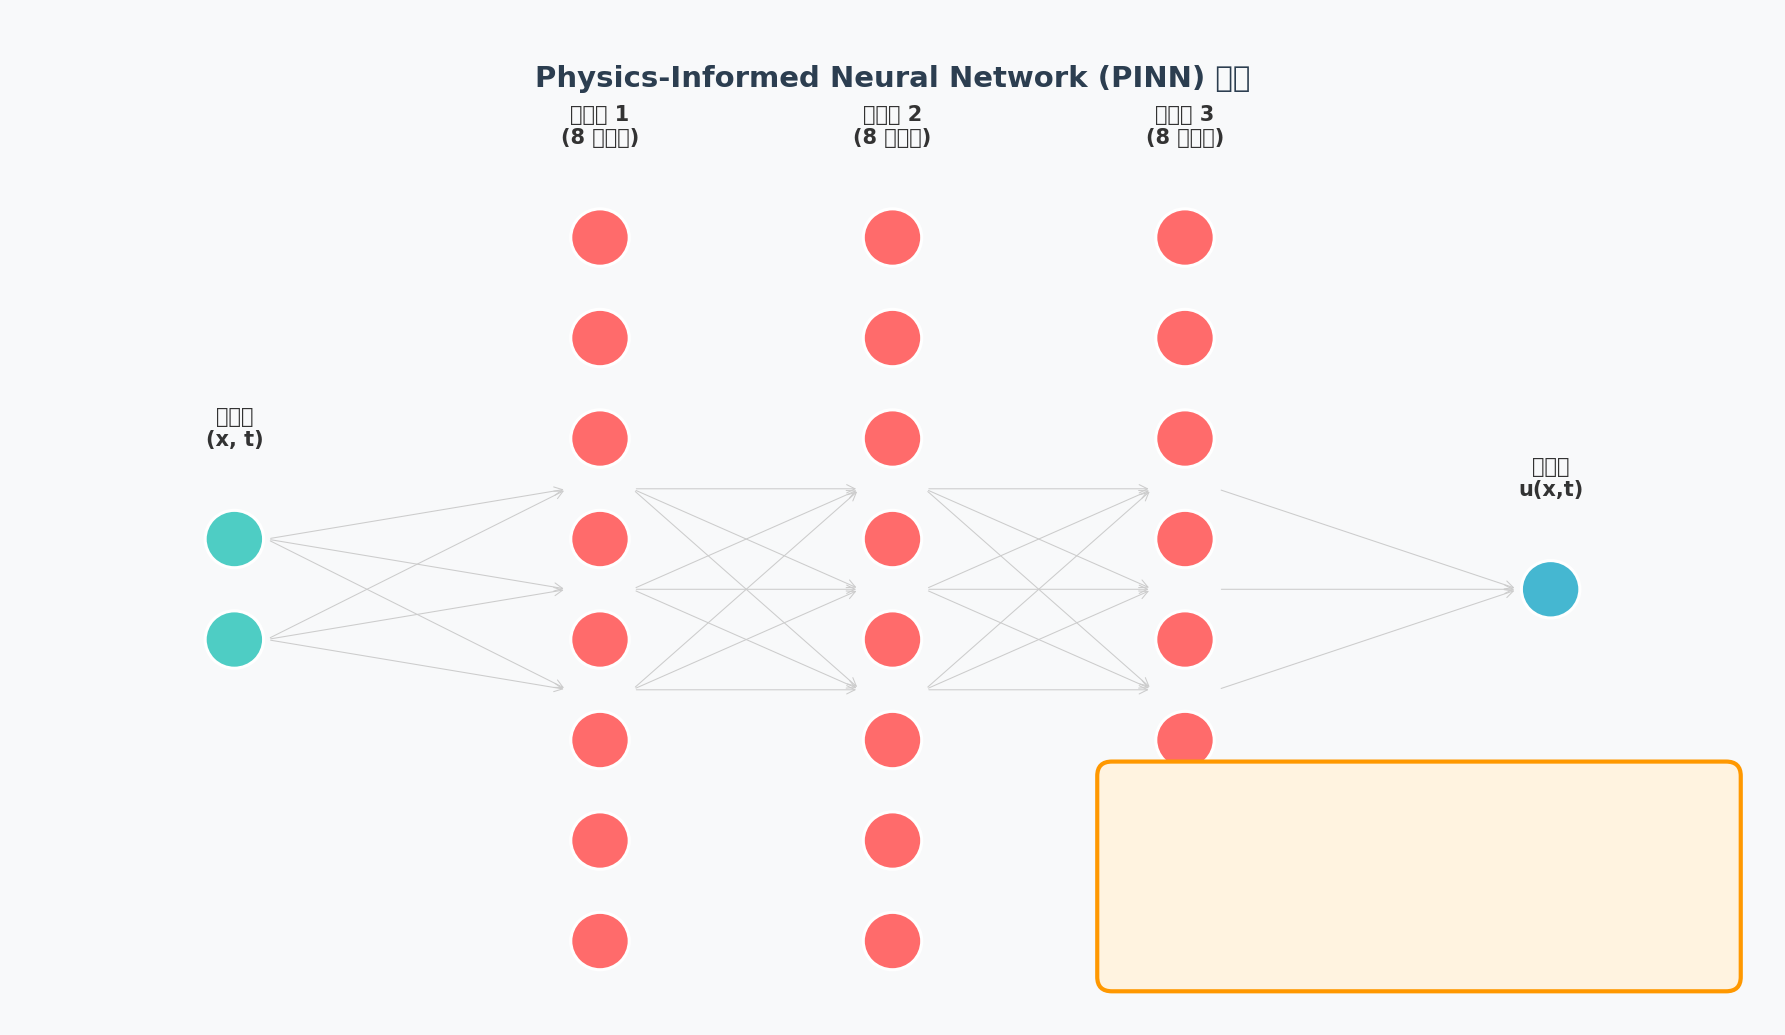
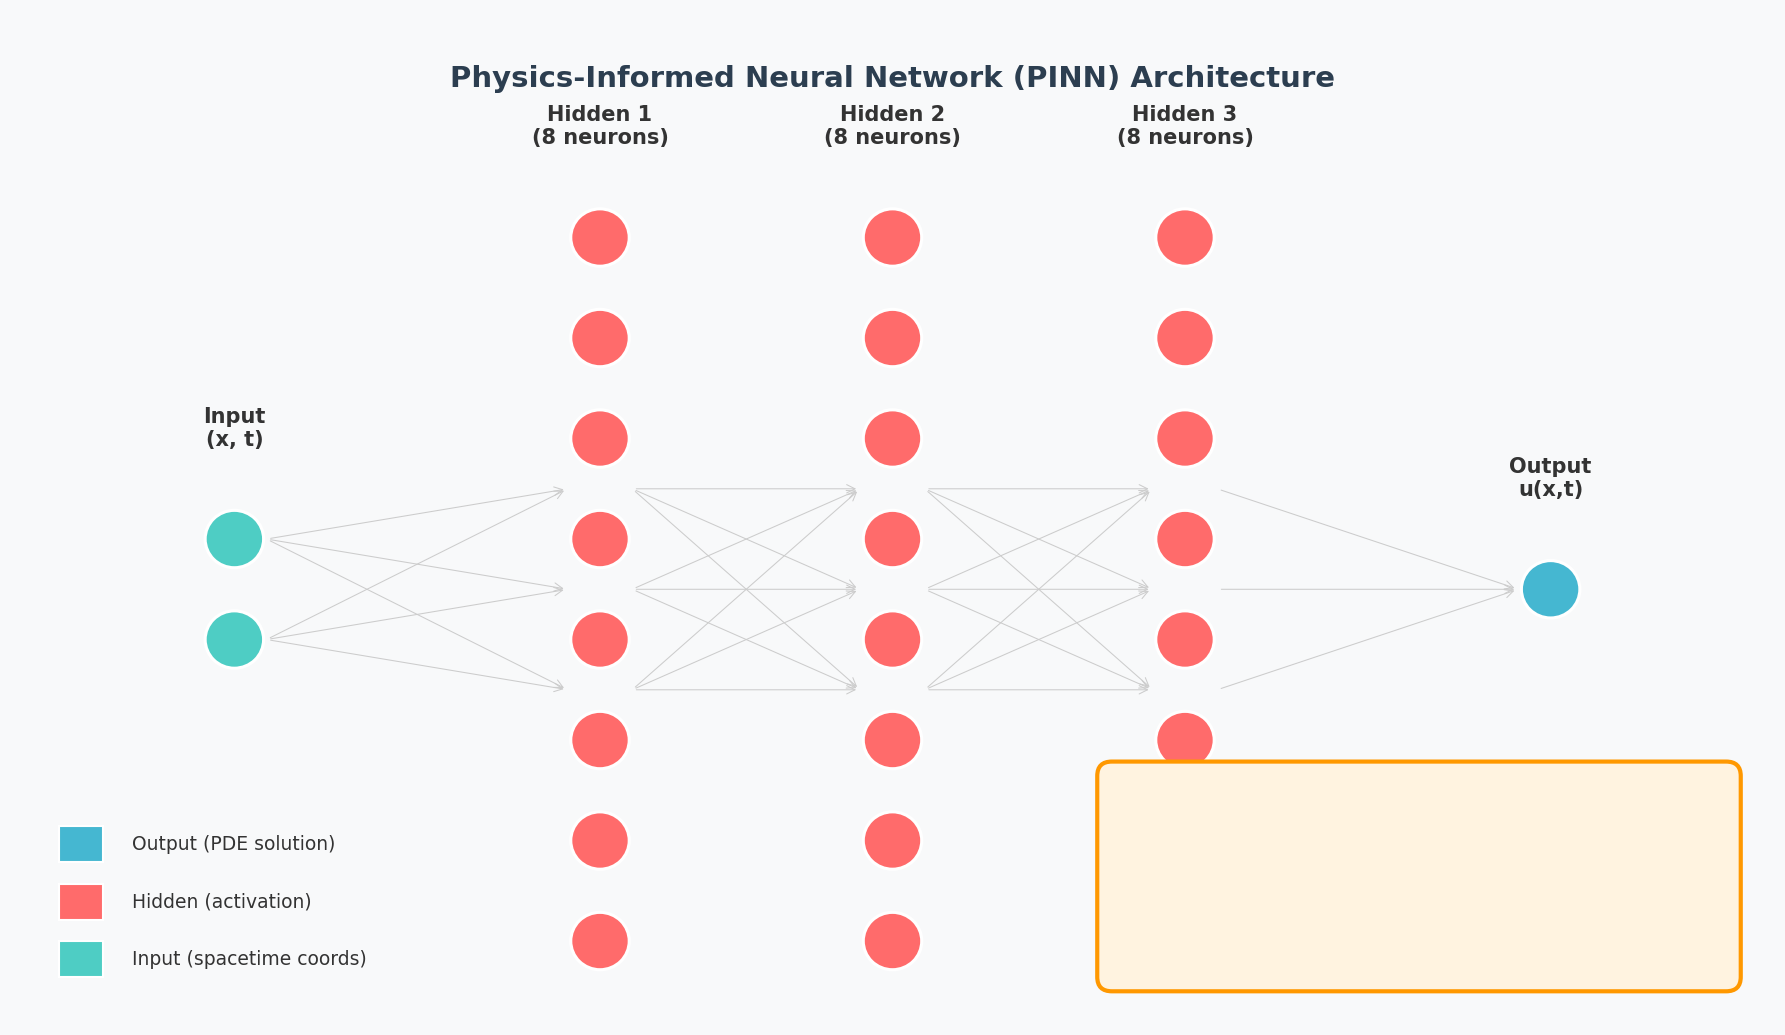
fix: 数学公式渲染+加粗修复+架构图英文版

diff --git a/src/content/blog/pinn-introduction.md b/src/content/blog/pinn-introduction.md
@@ -7,13 +7,13 @@ tags: ["深度学习", "PDE", "PINN", "PyTorch", "科学计算"]
 
 # 物理信息网络 PINN：利用神经网络求解偏微分方程
 
-> 偏微分方程（PDE）是描述物理世界的基本语言——热传导、流体动力学、量子力学，无一不是 PDE 的天下。但求解 PDE 常常需要复杂的数值方法（有限元、有限差分……），对几何形状不规则的区域更是头疼。**Physics-Informed Neural Networks（PINN）** 给出了一个全新的思路：**用神经网络作为 PDE 的解函数，用自动微分作为物理约束的执行器**。
+> 偏微分方程（PDE）是描述物理世界的基本语言——热传导、流体动力学、量子力学，无一不是 PDE 的天下。但求解 PDE 常常需要复杂的数值方法（有限元、有限差分……），对几何形状不规则的区域更是头疼。<strong>Physics-Informed Neural Networks（PINN）</strong> 给出了一个全新的思路：<strong>用神经网络作为 PDE 的解函数，用自动微分作为物理约束的执行器</strong>。
 
 ---
 
 ## 1. 什么是 PINN？
 
-**PINN 的核心思想**：不把神经网络当作"万能拟合器"，而是当作 **PDE 解函数的表示**。
+<strong>PINN 的核心思想</strong>：不把神经网络当作"万能拟合器"，而是当作 <strong>PDE 解函数的表示</strong>。
 
 传统方法：给定边界条件和初始条件，用数值差分近似 PDE 的导数。
 
@@ -27,11 +27,11 @@ PINN：用一个神经网络 `u_θ(x,t)` 来近似 PDE 的解 `u(x,t)`，其中 
 
 如上图所示，PINN 的结构为：
 
-- **输入层**：时空坐标 `(x, t)`
-- **隐藏层**：全连接层 + 激活函数（Tanh / Sigmoid）
-- **输出层**：PDE 的解 `u(x,t)`
+- <strong>输入层</strong>：时空坐标 `(x, t)`
+- <strong>隐藏层</strong>：全连接层 + 激活函数（Tanh / Sigmoid）
+- <strong>输出层</strong>：PDE 的解 `u(x,t)`
 
-关键区别在于**损失函数**的设计——除了数据拟合损失外，还加入了物理约束损失。
+关键区别在于<strong>损失函数</strong>的设计——除了数据拟合损失外，还加入了物理约束损失。
 
 ---
 
@@ -39,7 +39,7 @@ PINN：用一个神经网络 `u_θ(x,t)` 来近似 PDE 的解 `u(x,t)`，其中 
 
 ### 3.1 问题设定
 
-以**一维热传导方程**为例：
+以<strong>一维热传导方程</strong>为例：
 
 $$
 \frac{\partial u}{\partial t} = \alpha \frac{\partial^2 u}{\partial x^2}, \quad x \in [-1, 1], \quad t \in [0, 1]
@@ -68,7 +68,7 @@ $$
 f(x,t) = \frac{\partial u}{\partial t} - \alpha \frac{\partial^2 u}{\partial x^2} \quad \Rightarrow \quad \mathcal{L}_{PDE} = \frac{1}{N}\sum_{i=1}^{N} |f(x_i, t_i)|^2
 $$
 
-> 这里的 `f(x,t)` 被称为**残差网络（physics network）**，它完全由自动微分构造，不需要任何有限差分近似。
+> 这里的 `f(x,t)` 被称为<strong>残差网络（physics network）</strong>，它完全由自动微分构造，不需要任何有限差分近似。
 
 ---
 
@@ -259,17 +259,17 @@ ani.save("pinn_loss_components.gif", writer="pillow", fps=6, dpi=100)
 ![PINN 收敛动画](/pinn_gifs/pinn_convergence.gif)
 
 上图展示了 PINN 在训练过程中逐步逼近精确解的过程：
-- **左图**：t=0.5 时刻的解曲线，红色虚线为 PINN 预测，蓝色实线为精确解
-- **中图**：训练损失（对数坐标），可以看到三种损失协同下降
-- **右图**：PINN 预测的完整 (x,t) 解场
+- <strong>左图</strong>：t=0.5 时刻的解曲线，红色虚线为 PINN 预测，蓝色实线为精确解
+- <strong>中图</strong>：训练损失（对数坐标），可以看到三种损失协同下降
+- <strong>右图</strong>：PINN 预测的完整 (x,t) 解场
 
 ### 5.2 损失函数分解
 
 ![PINN 损失分解动画](/pinn_gifs/pinn_loss_components.gif)
 
 从损失分解动画可以看出：
-- **PDE 损失（红色）**下降最快，说明网络快速学到了物理规律
-- **边界条件损失（蓝色）** 通常最小，因为边界条件约束最简单
+- <strong>PDE 损失（红色）</strong>下降最快，说明网络快速学到了物理规律
+- <strong>边界条件损失（蓝色）</strong> 通常最小，因为边界条件约束最简单
 - 三种损失最终趋于稳定，表明网络已收敛
 
 ---
@@ -278,11 +278,11 @@ ani.save("pinn_loss_components.gif", writer="pillow", fps=6, dpi=100)
 
 | 特性 | 传统数值方法（FEM/FDM） | PINN |
 |------|------------------------|------|
-| 网格生成 | 需要精细网格，高维困难 | **无需网格**，随机采样 |
-| 导数精度 | 依赖差分近似，有截断误差 | **自动微分**，任意精度 |
-| 不规则区域 | 网格划分复杂 | **天然支持**任意几何 |
-| 反问题 | 需要重求解器 | **端到端**梯度优化 |
-| 高维问题 | 维度灾难 | **Scalable** |
+| 网格生成 | 需要精细网格，高维困难 | <strong>无需网格</strong>，随机采样 |
+| 导数精度 | 依赖差分近似，有截断误差 | <strong>自动微分</strong>，任意精度 |
+| 不规则区域 | 网格划分复杂 | <strong>天然支持</strong>任意几何 |
+| 反问题 | 需要重求解器 | <strong>端到端</strong>梯度优化 |
+| 高维问题 | 维度灾难 | <strong>Scalable</strong> |
 
 ---
 
@@ -292,26 +292,26 @@ ani.save("pinn_loss_components.gif", writer="pillow", fps=6, dpi=100)
 
 ### 7.1 训练困难
 
-- **模式坍缩（Mode Collapse）**：当 PDE 有多个解时，PINN 可能只学到其中一个
-- **梯度消失**：高阶导数（如 u_xxxx）的梯度在深层网络中可能极小
-- **超参数敏感**：网络深度、学习率、采样策略对结果影响显著
+- <strong>模式坍缩（Mode Collapse）</strong>：当 PDE 有多个解时，PINN 可能只学到其中一个
+- <strong>梯度消失</strong>：高阶导数（如 u_xxxx）的梯度在深层网络中可能极小
+- <strong>超参数敏感</strong>：网络深度、学习率、采样策略对结果影响显著
 
 ### 7.2 解的精度
 
-- 神经网络在**高频解**（如震荡解）上精度较差
+- 神经网络在<strong>高频解</strong>（如震荡解）上精度较差
 - 边界层、奇异性附近需要特殊处理（自适应采样、周期扩展等）
 
 ### 7.3 计算效率
 
-- 相比成熟数值库（如 FEniCS、COMSOL），PINN 在简单 PDE 上往往**更慢**
+- 相比成熟数值库（如 FEniCS、COMSOL），PINN 在简单 PDE 上往往<strong>更慢</strong>
 - GPU 利用率不如专用数值代码高
 
 ### 7.4 改进方向
 
-- **Adaptive Sampling**：在误差大的区域多采样（如 Residual-based Adaptive Refinement）
-- **DeepONet**： Operator Network，直接学习 PDE 解算子
-- **Fourier Neural Operator (FNO)**：频域神经算子，高维问题效果更好
-- **HP-VPINN**：基于变分形式的 PINN，精度更高
+- <strong>Adaptive Sampling</strong>：在误差大的区域多采样（如 Residual-based Adaptive Refinement）
+- <strong>DeepONet</strong>： Operator Network，直接学习 PDE 解算子
+- <strong>Fourier Neural Operator (FNO)</strong>：频域神经算子，高维问题效果更好
+- <strong>HP-VPINN</strong>：基于变分形式的 PINN，精度更高
 
 ---
 
@@ -382,18 +382,18 @@ print("结果已保存!")
 
 ## 9. 总结
 
-PINN 将**物理先验**嵌入神经网络的训练过程，开辟了"物理驱动的深度学习"这一新范式。它的核心创新不是网络结构，而是**损失函数的设计**——用自动微分精确施加物理约束。
+PINN 将<strong>物理先验</strong>嵌入神经网络的训练过程，开辟了"物理驱动的深度学习"这一新范式。它的核心创新不是网络结构，而是<strong>损失函数的设计</strong>——用自动微分精确施加物理约束。
 
 尽管存在训练困难、精度有限等挑战，PINN 在以下场景中展现了独特价值：
-- **高维 PDE**（传统方法维度灾难）
-- **反问题**（参数识别、数据同化）
-- **不确定性量化**（结合贝叶斯方法）
+- <strong>高维 PDE</strong>（传统方法维度灾难）
+- <strong>反问题</strong>（参数识别、数据同化）
+- <strong>不确定性量化</strong>（结合贝叶斯方法）
 
 > 如果你想进一步探索，推荐从 [DeepXDE](https://deepxde.readthedocs.io/) 库开始，它封装了大量 PINN 变体和自适应采样策略。
 
 ---
 
-**参考论文：**
+<strong>参考论文：</strong>
 1. Raissi, M., Perdikaris, P., & Karniadakis, G. E. (2019). *Physics-informed neural networks: A deep learning framework for solving forward and inverse problems involving nonlinear partial differential equations.* Journal of Computational Physics, 378, 686-707.
 2. Lu, L., et al. (2021). *DeepONet: Learning nonlinear operators for identifying differential equations based on the universal approximation theorem of operators.* Nature Machine Intelligence, 3(3), 218-229.
 3. Li, Z., et al. (2021). *Fourier neural operator for parametric PDEs.* ICLR 2021.
